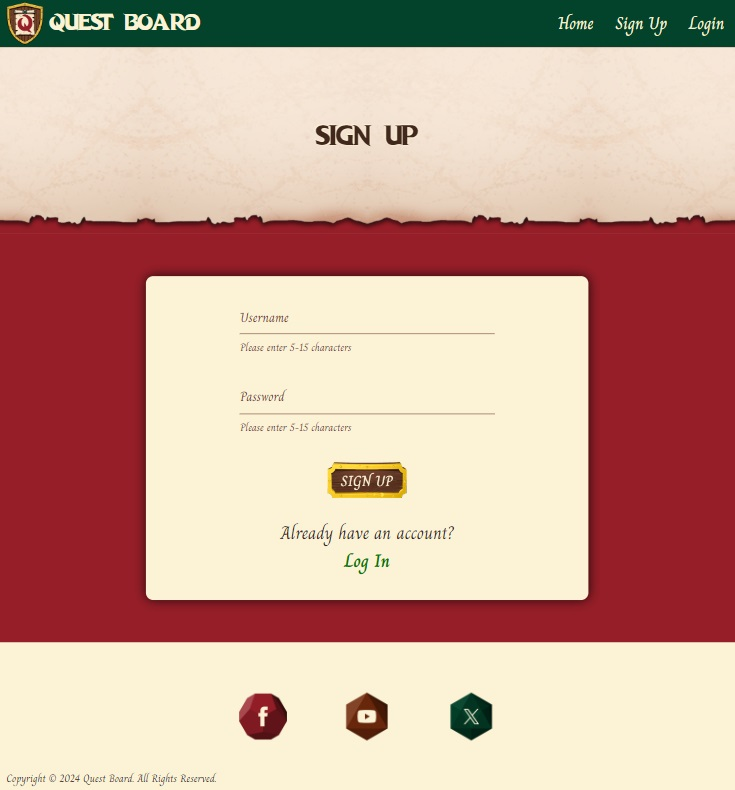
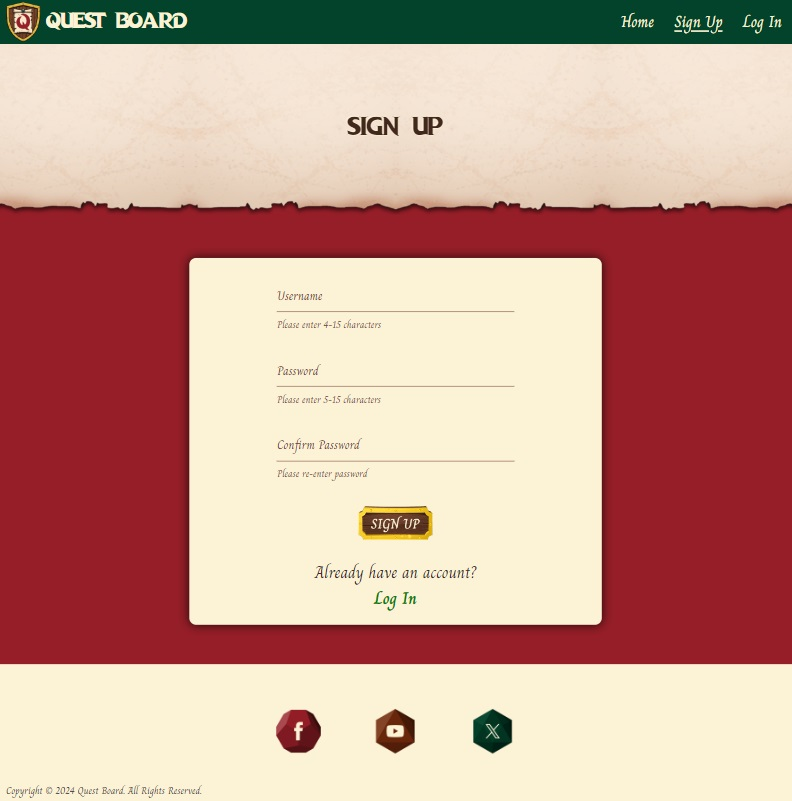
docs: update content in features section of README.md

diff --git a/README.md b/README.md
@@ -410,6 +410,11 @@ Wireframes were generated using Balsamiq for desktop, tablet, and mobile screen 
 
 *Sidenav - Hover*
 
+<img src="documentation/features/nav-active-link.gif">
+<img src="documentation/features/sidenav-active-link.gif">
+
+*Active Links*
+
 </details>
 
 - **Alternative Colour Scheme:** Implemented a variation between red and green navbars to provide an alternative colour scheme across the site. This variation distinguishes between primary site pages (e.g. home page, events page) and secondary pages (e.g. edit events, sign up).
@@ -419,6 +424,8 @@ Wireframes were generated using Balsamiq for desktop, tablet, and mobile screen 
 - **Sidenav Design:** The sidenav was designed to resemble a medieval banner, aligning with the fantasy adventure visual theme of the website. This design element adds a thematic touch to the navigation experience.
 
 - **Logo Navigation:** The website logo serves as a consistent link to return home, ensuring easy navigation back to the home page from any section of the site. This contributes to a seamless user experience by providing a familiar and intuitive method of navigation.
+
+- **Active Links:** Utilised to aid users in navigating the site, making it easier for them to identify the current page they're viewing.
 
 #### **Flash Messages**
 
@@ -558,6 +565,10 @@ Wireframes were generated using Balsamiq for desktop, tablet, and mobile screen 
 
 *Input Pattern Recognition*
 
+<img src="documentation/features/confirm-password.gif">
+
+*Confirm Password*
+
 <img src="documentation/features/sign-up-navigation.gif">
 
 *Navigation*
@@ -575,6 +586,8 @@ Wireframes were generated using Balsamiq for desktop, tablet, and mobile screen 
 - **Helper Text:** Included helper text to clearly communicate character count requirements, aiding users in understanding input expectations.
 
 - **Pattern Recognition:** Implemented pattern recognition on input fields to ensure the submission of correct data. Notifying users if invalid characters are entered and guiding them to input valid information.
+
+- **Confirm Password:** Added to improve the sign-up user experience and prevent unintentional spelling errors when creating a user profile.
 
 - **Convenient Navigation:** Included links to the login/sign up page on both pages, ensuring easy navigation between pages and enhancing the user experience.
 
@@ -749,6 +762,10 @@ Wireframes were generated using Balsamiq for desktop, tablet, and mobile screen 
 
 *Colour-Coded Stamps*
 
+<img src="documentation/features/event-form-validation.gif">
+
+*Input Validation*
+
 </details>
 
 The form on this page incorporates several features aimed at helping users understand the required information and how to address any errors.
@@ -770,6 +787,8 @@ The form on this page incorporates several features aimed at helping users under
 - **Colour-Coded Stamps:** Images representing different experience levels are colour-coded like traffic lights. The intention was to create an intuitive understanding of each level's significance.
 
 - **Pre-populated Inputs:** When editing an event, the form fields will be pre-populated with the existing data. This feature eliminates the need for users to re-enter all information, enabling them to conveniently modify specific details as needed.
+
+- **Input Validation:** To guarantee that users provide the necessary data, validation checks were integrated into various inputs. These include prohibiting users from selecting an event date in the past, preventing the input of whitespace-only characters for text inputs, and disallowing text inputs from starting or ending with a space.
 
 ### **Error Pages**
 
@@ -816,6 +835,10 @@ Enable users to create and join parties with other members, fostering a stronger
 #### **Message System**
 
 Implement a messaging system within events and user parties, facilitating communication among players. This would enhance event organisation and coordination, allowing users to discuss plans and make arrangements with ease.
+
+#### **Background Image Backup**
+
+Given that many content containers rely on background images, there's a concern regarding font readability should these images fail to load. As the images have tranparent elements, the option to include a background colour wasn't available. To address this, I intend to implement a feature in the future as a failsafe measure. This could involve using JavaScript to check if the image has loaded, and if not, provide an alternative option. Alternatively, divs with background colors could be positioned absolutely behind the background image, using z-index to keep them hidden unless the image fails to load.
 
 ---
 
